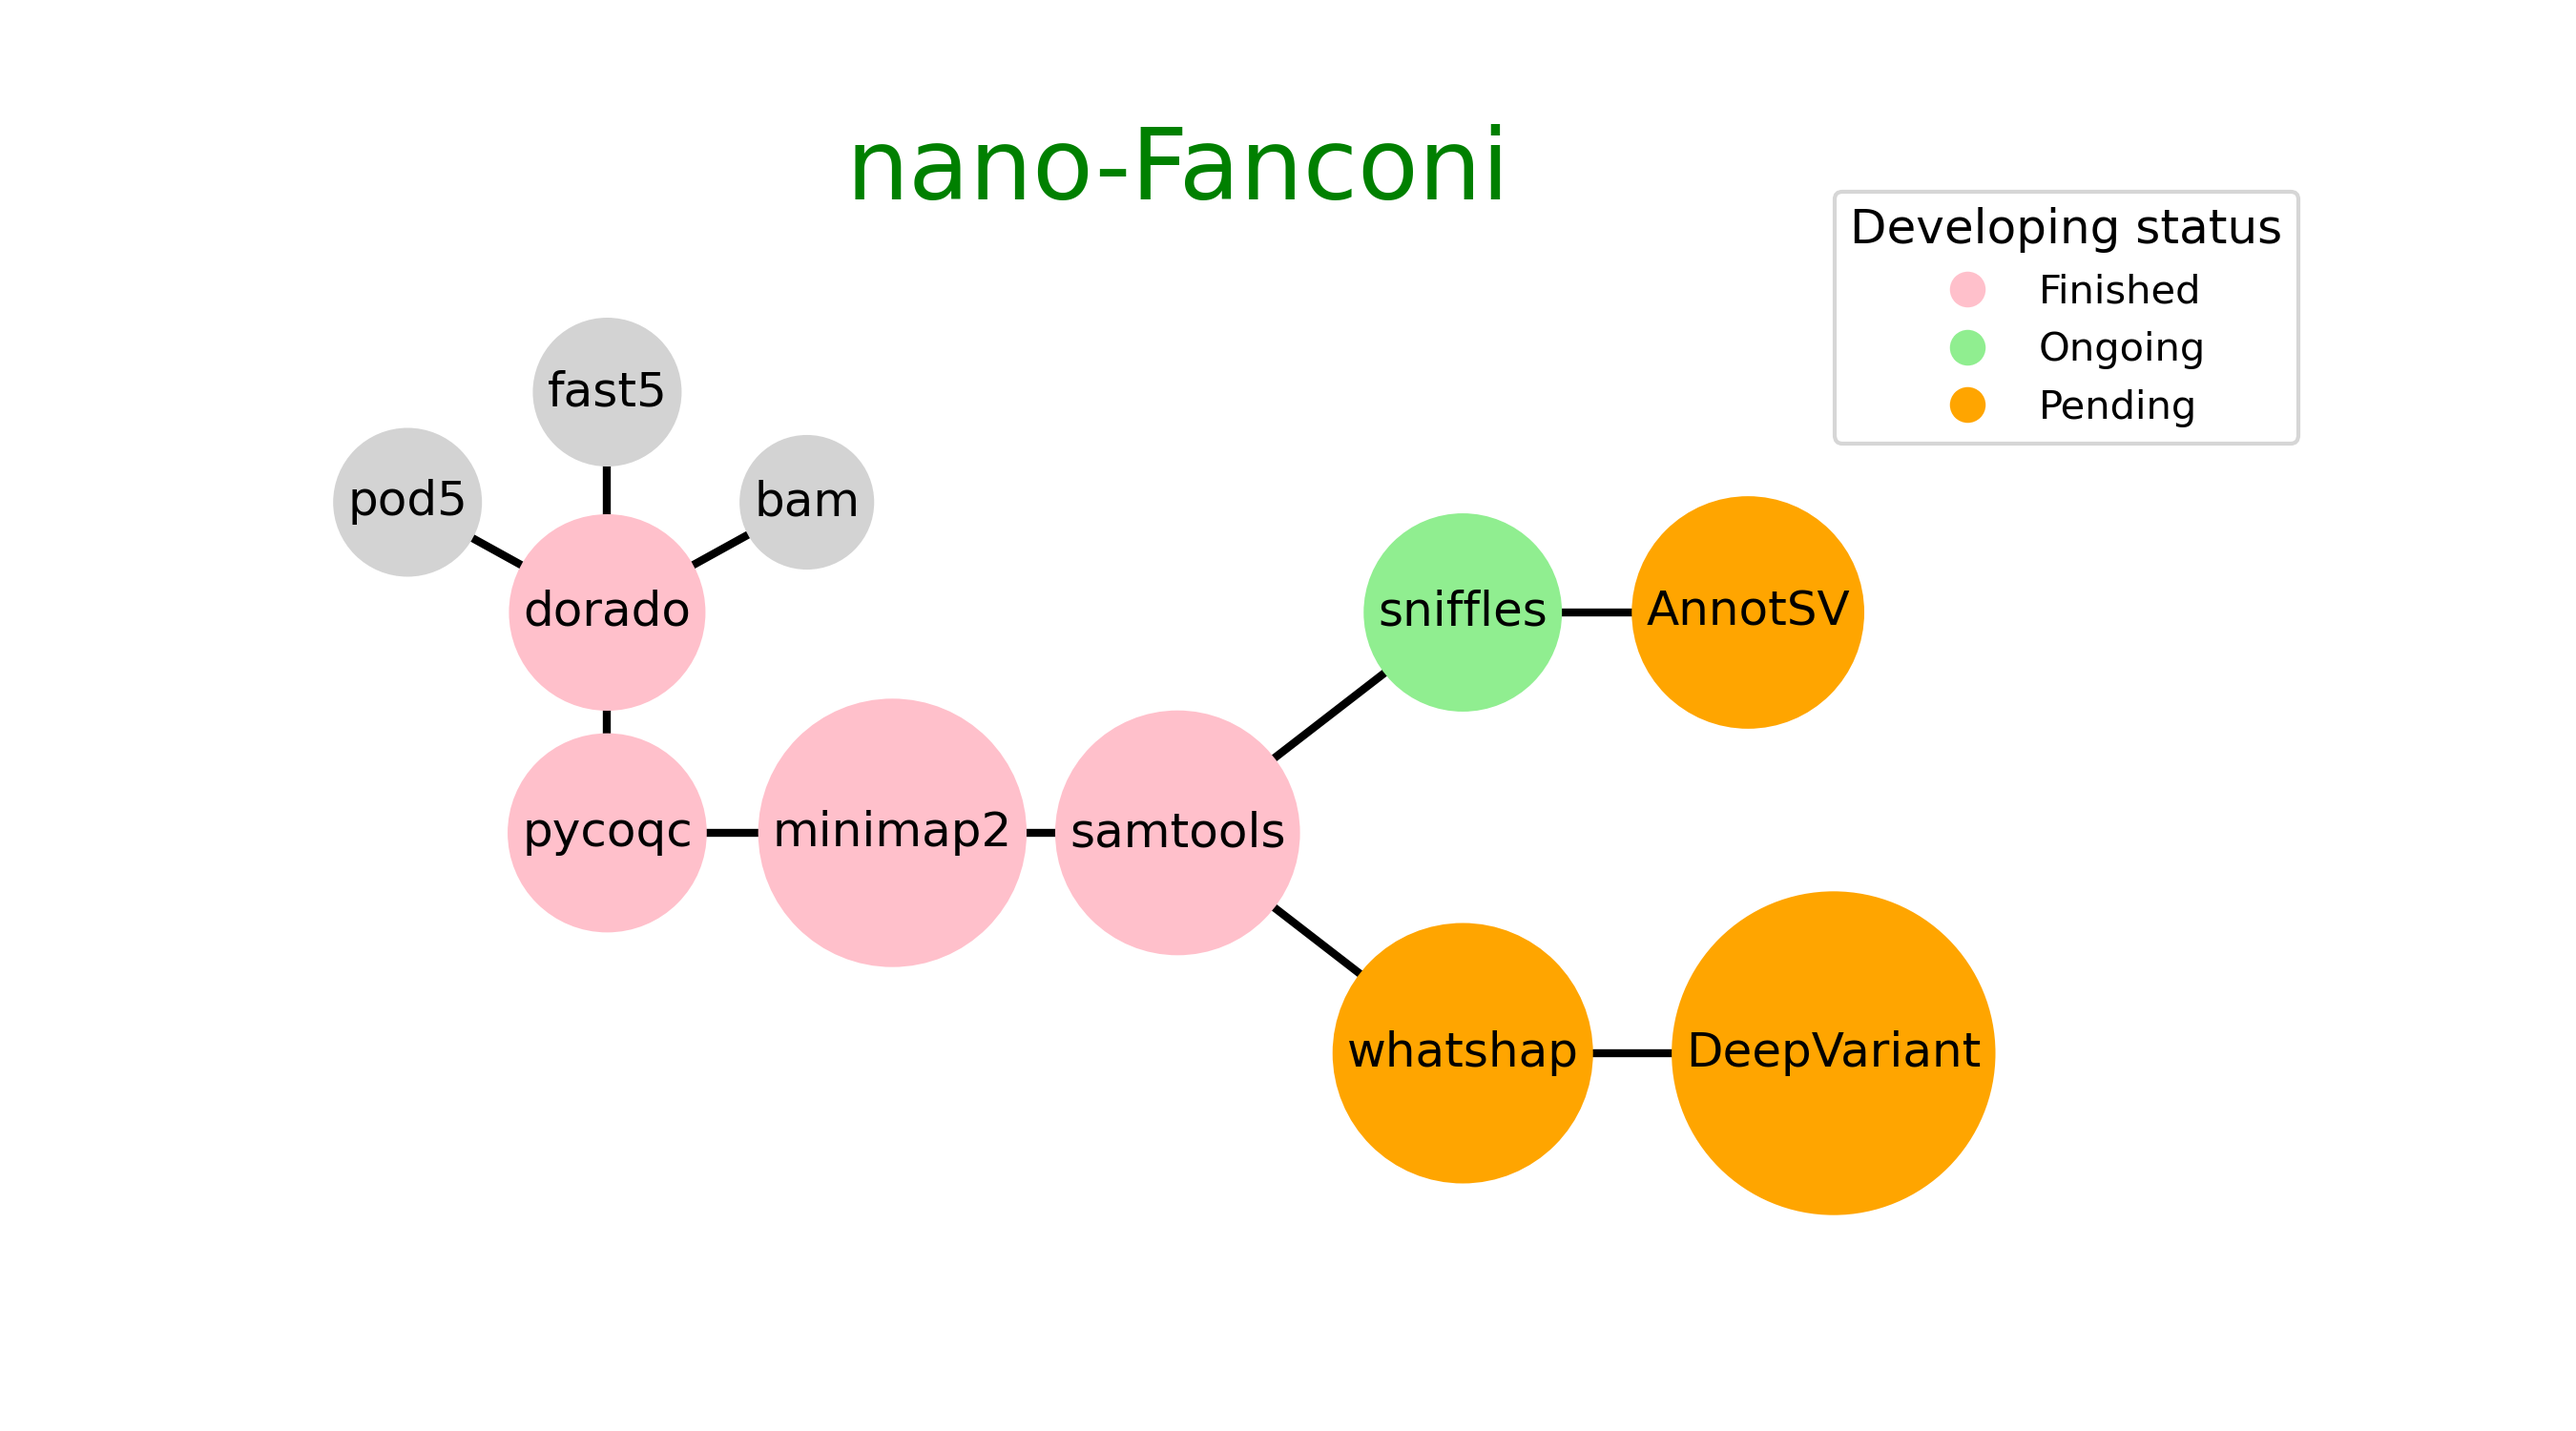
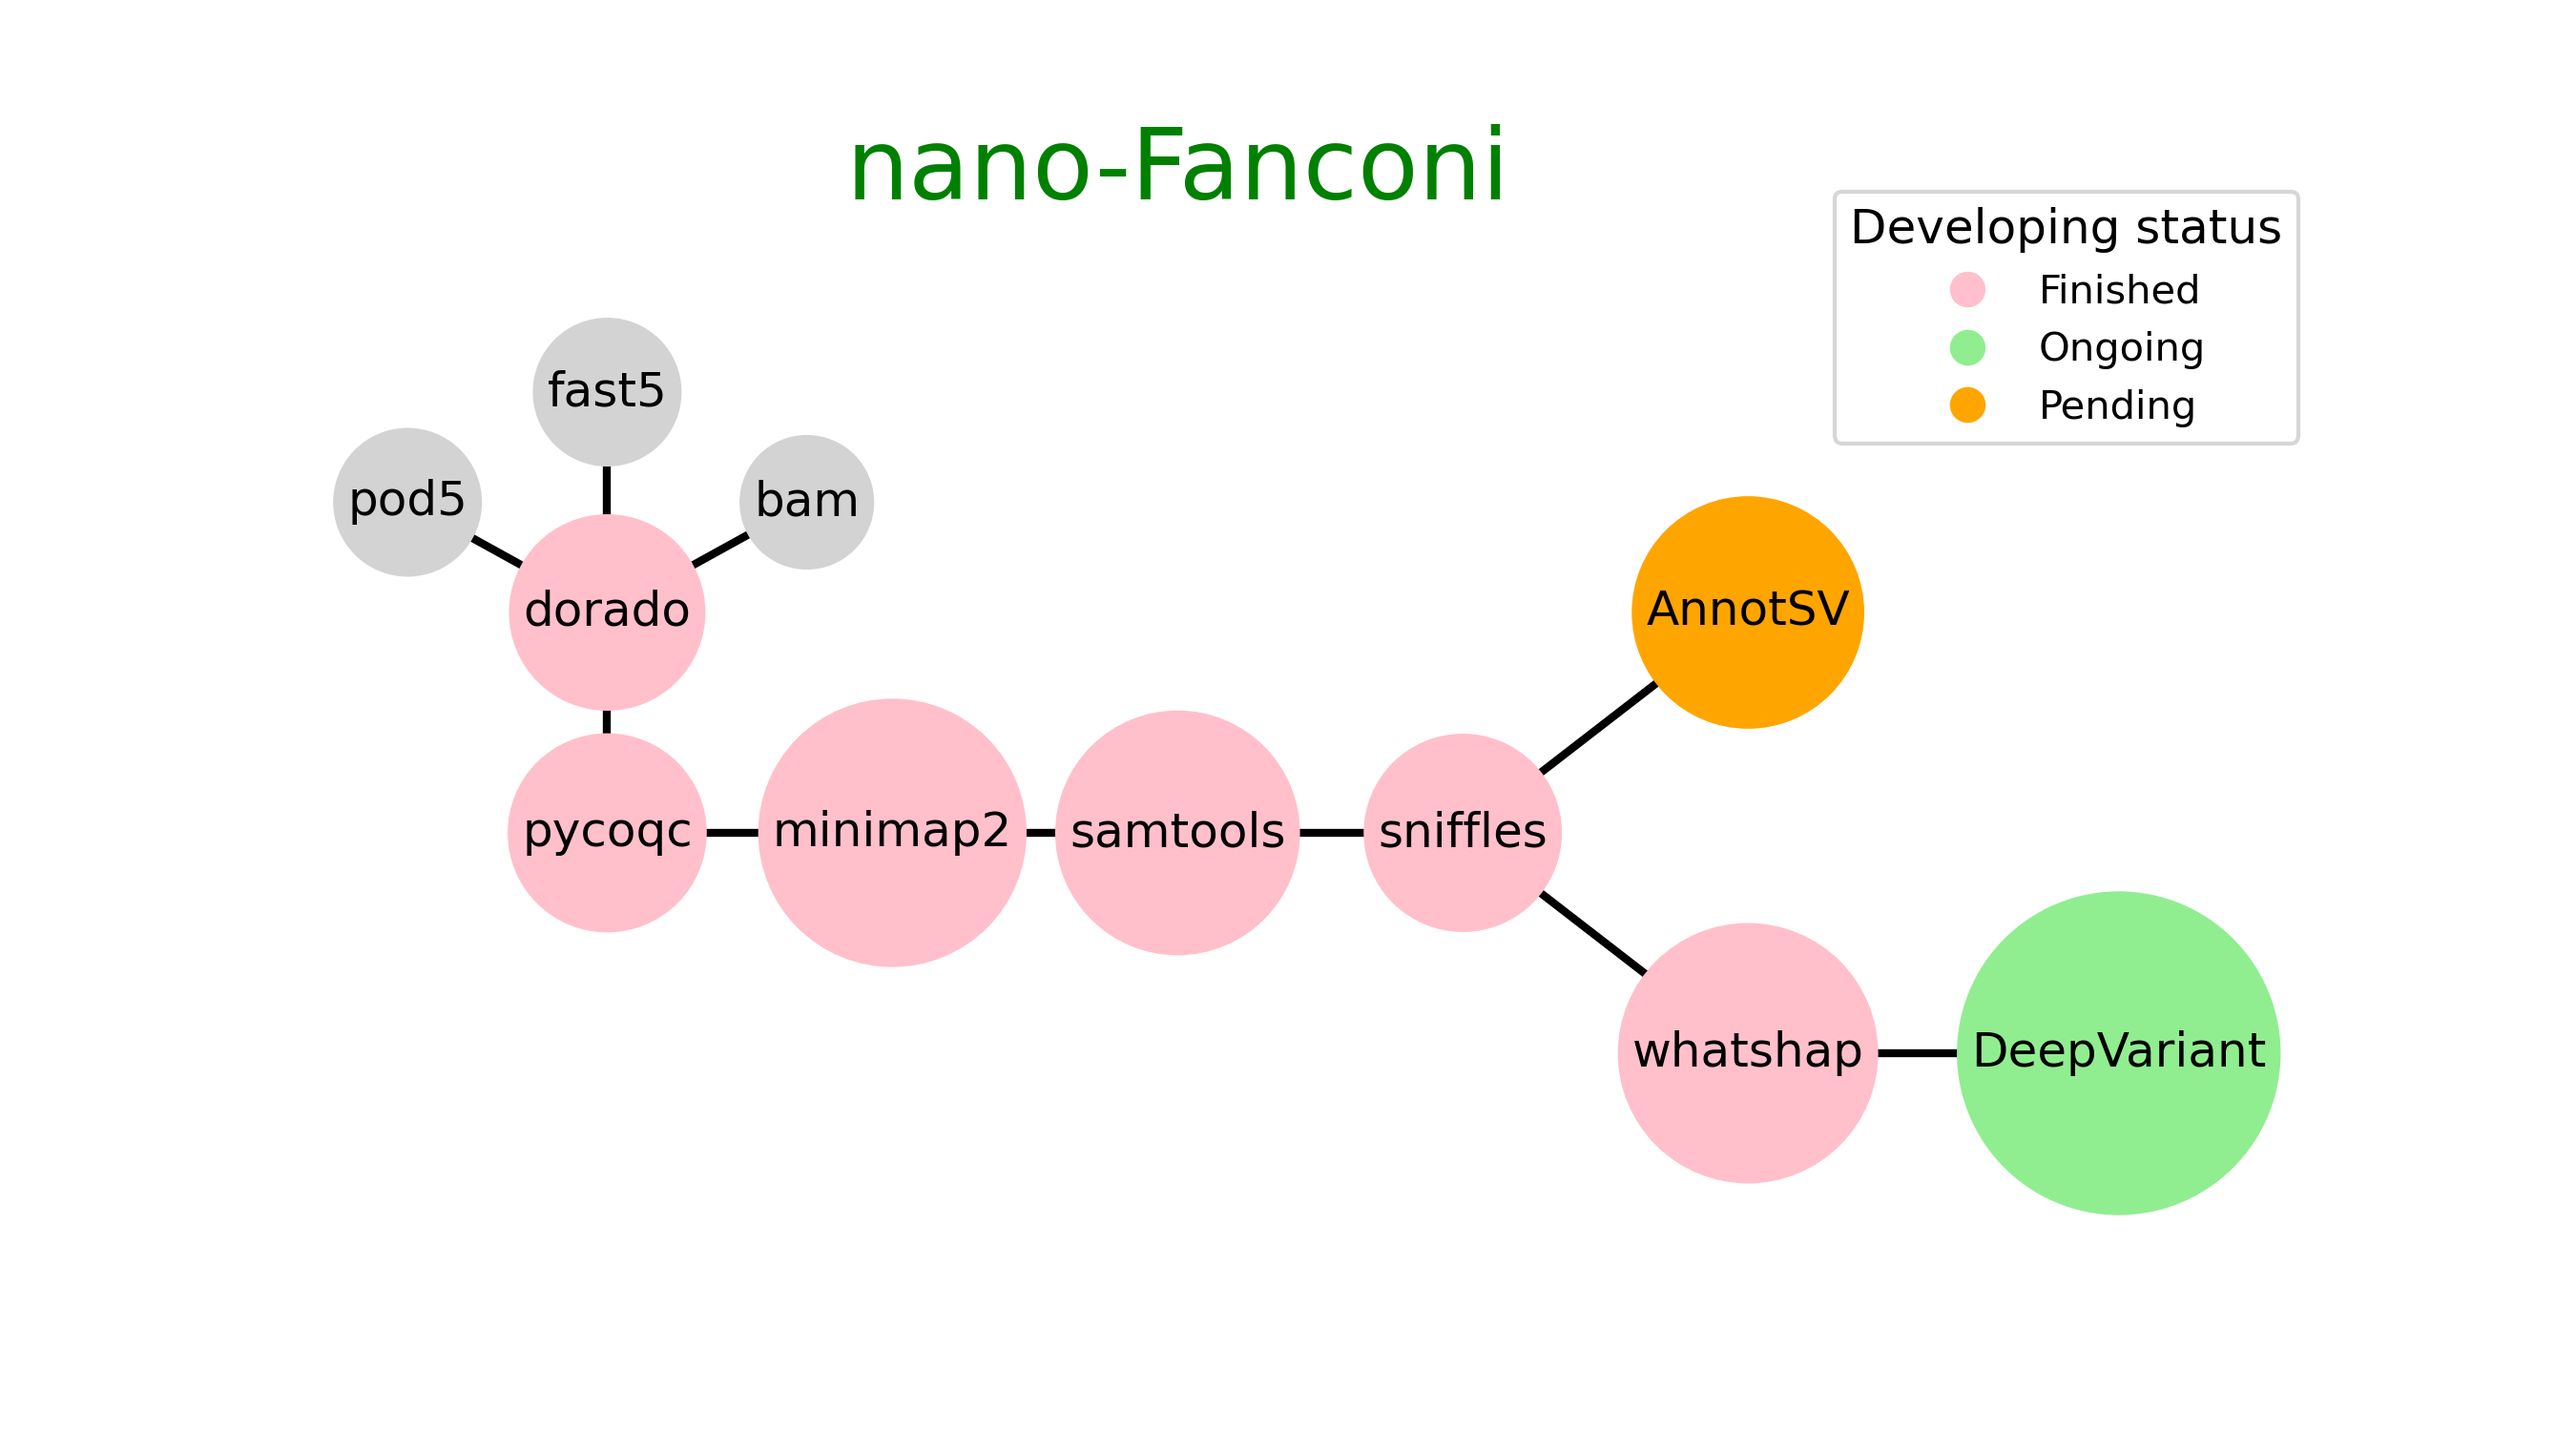
add deepvariant

Changed region(s): [[0.4978, 0.3373, 0.9022, 0.8587], [0.4978, 0.4907, 0.5289, 0.5213]]

diff --git a/docs/pipeline_overview_fig.py b/docs/pipeline_overview_fig.py
@@ -44,8 +44,7 @@ node_colors = {
     "pod5": "lightgrey",
     "bam": "lightgrey",
     "AnnotSV": "orange",
-    "whatshap":"lightgreen",
-    "DeepVariant":"orange",
+    "DeepVariant":"lightgreen",
     "default": "pink",
 }
 

diff --git a/CITATIONS.md b/CITATIONS.md
@@ -42,3 +42,7 @@ The formate is based on https://github.com/dhslab/nf-core-wgsnano
 - [Whatshap](https://doi.org/10.1093/bioinformatics/btw276)
 
   > Garg S, Martin M, Marschall T. Read-based phasing of related individuals. Bioinformatics 2016; 32 (12): i234-i242. doi: 10.1093/bioinformatics/btw276. PubMed PMID: 27307622; Pubmed Central PMCID: PMC4908360.
+
+- [DeepVariant](https://pubmed.ncbi.nlm.nih.gov/30247488/)
+
+  > Poplin R, Chang PC, Alexander D, Schwartz S, Colthurst T, Ku A, Newburger D, Dijamco J, Nguyen N, Afshar PT, Gross SS, Dorfman L, McLean CY, DePristo MA. A universal SNP and small-indel variant caller using deep neural networks. Nat Biotechnol. 2018 Nov;36(10):983-987. doi: 10.1038/nbt.4235. Epub 2018 Sep 24. PMID: 30247488.
